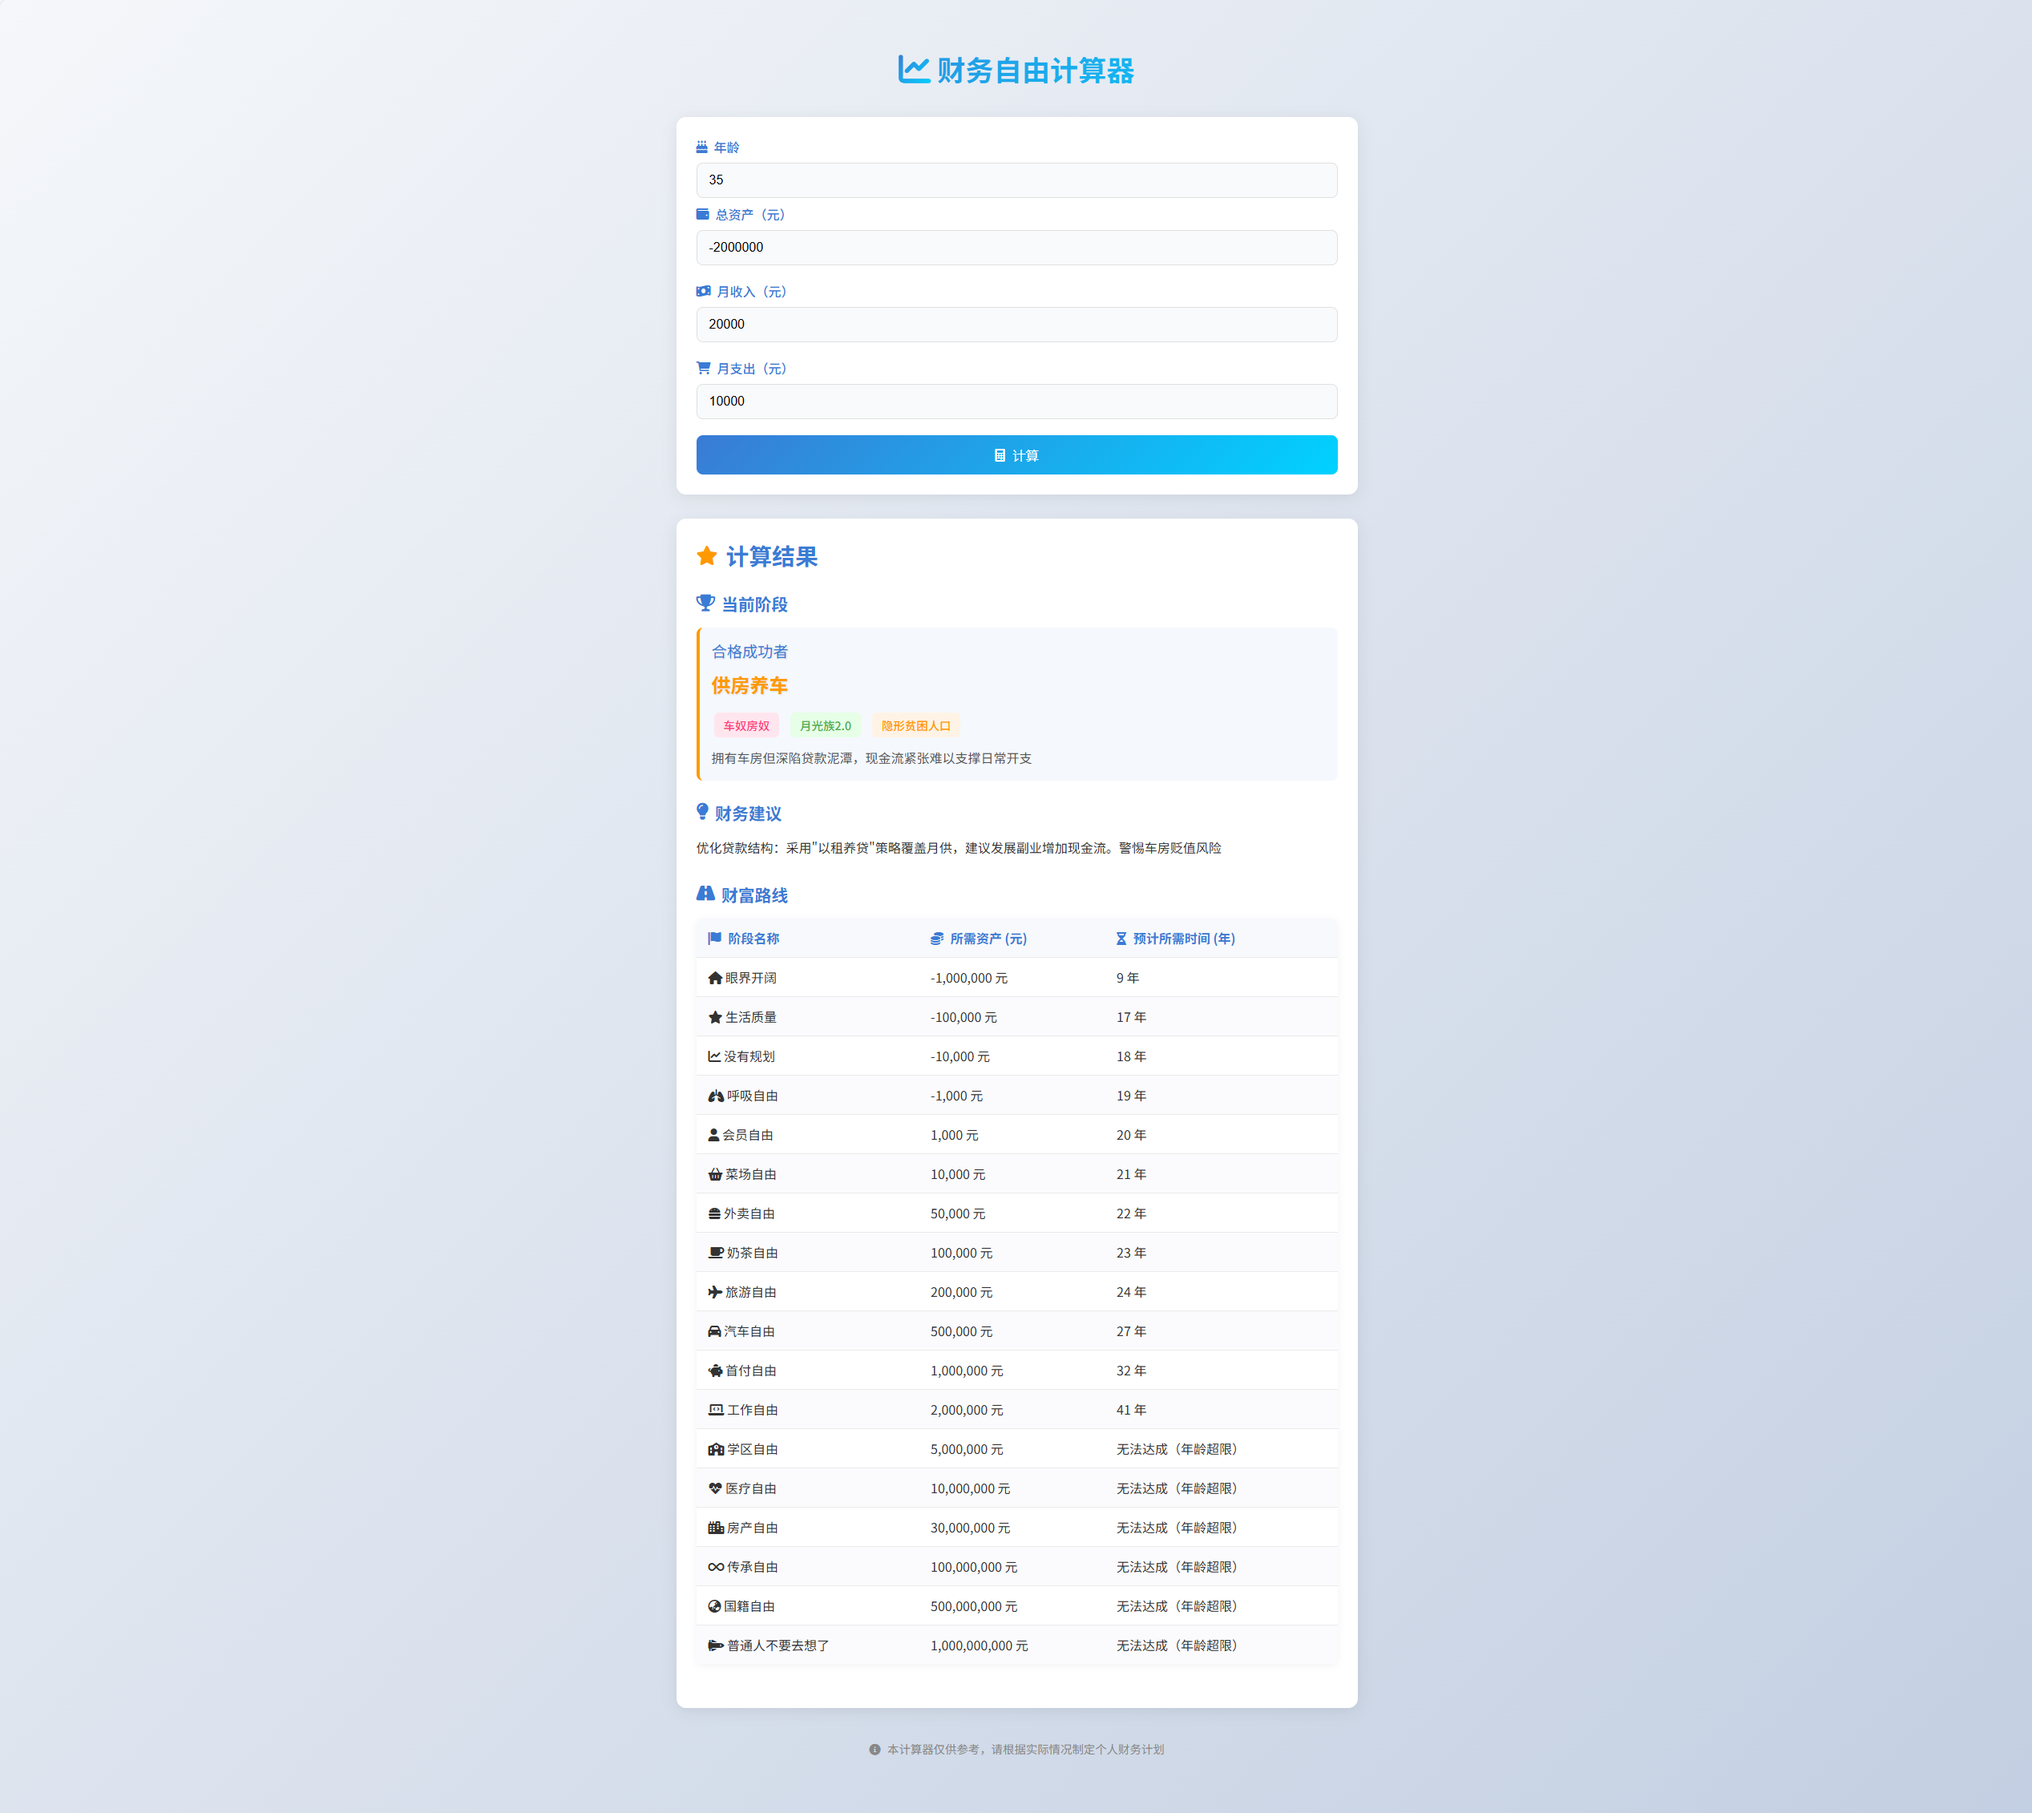
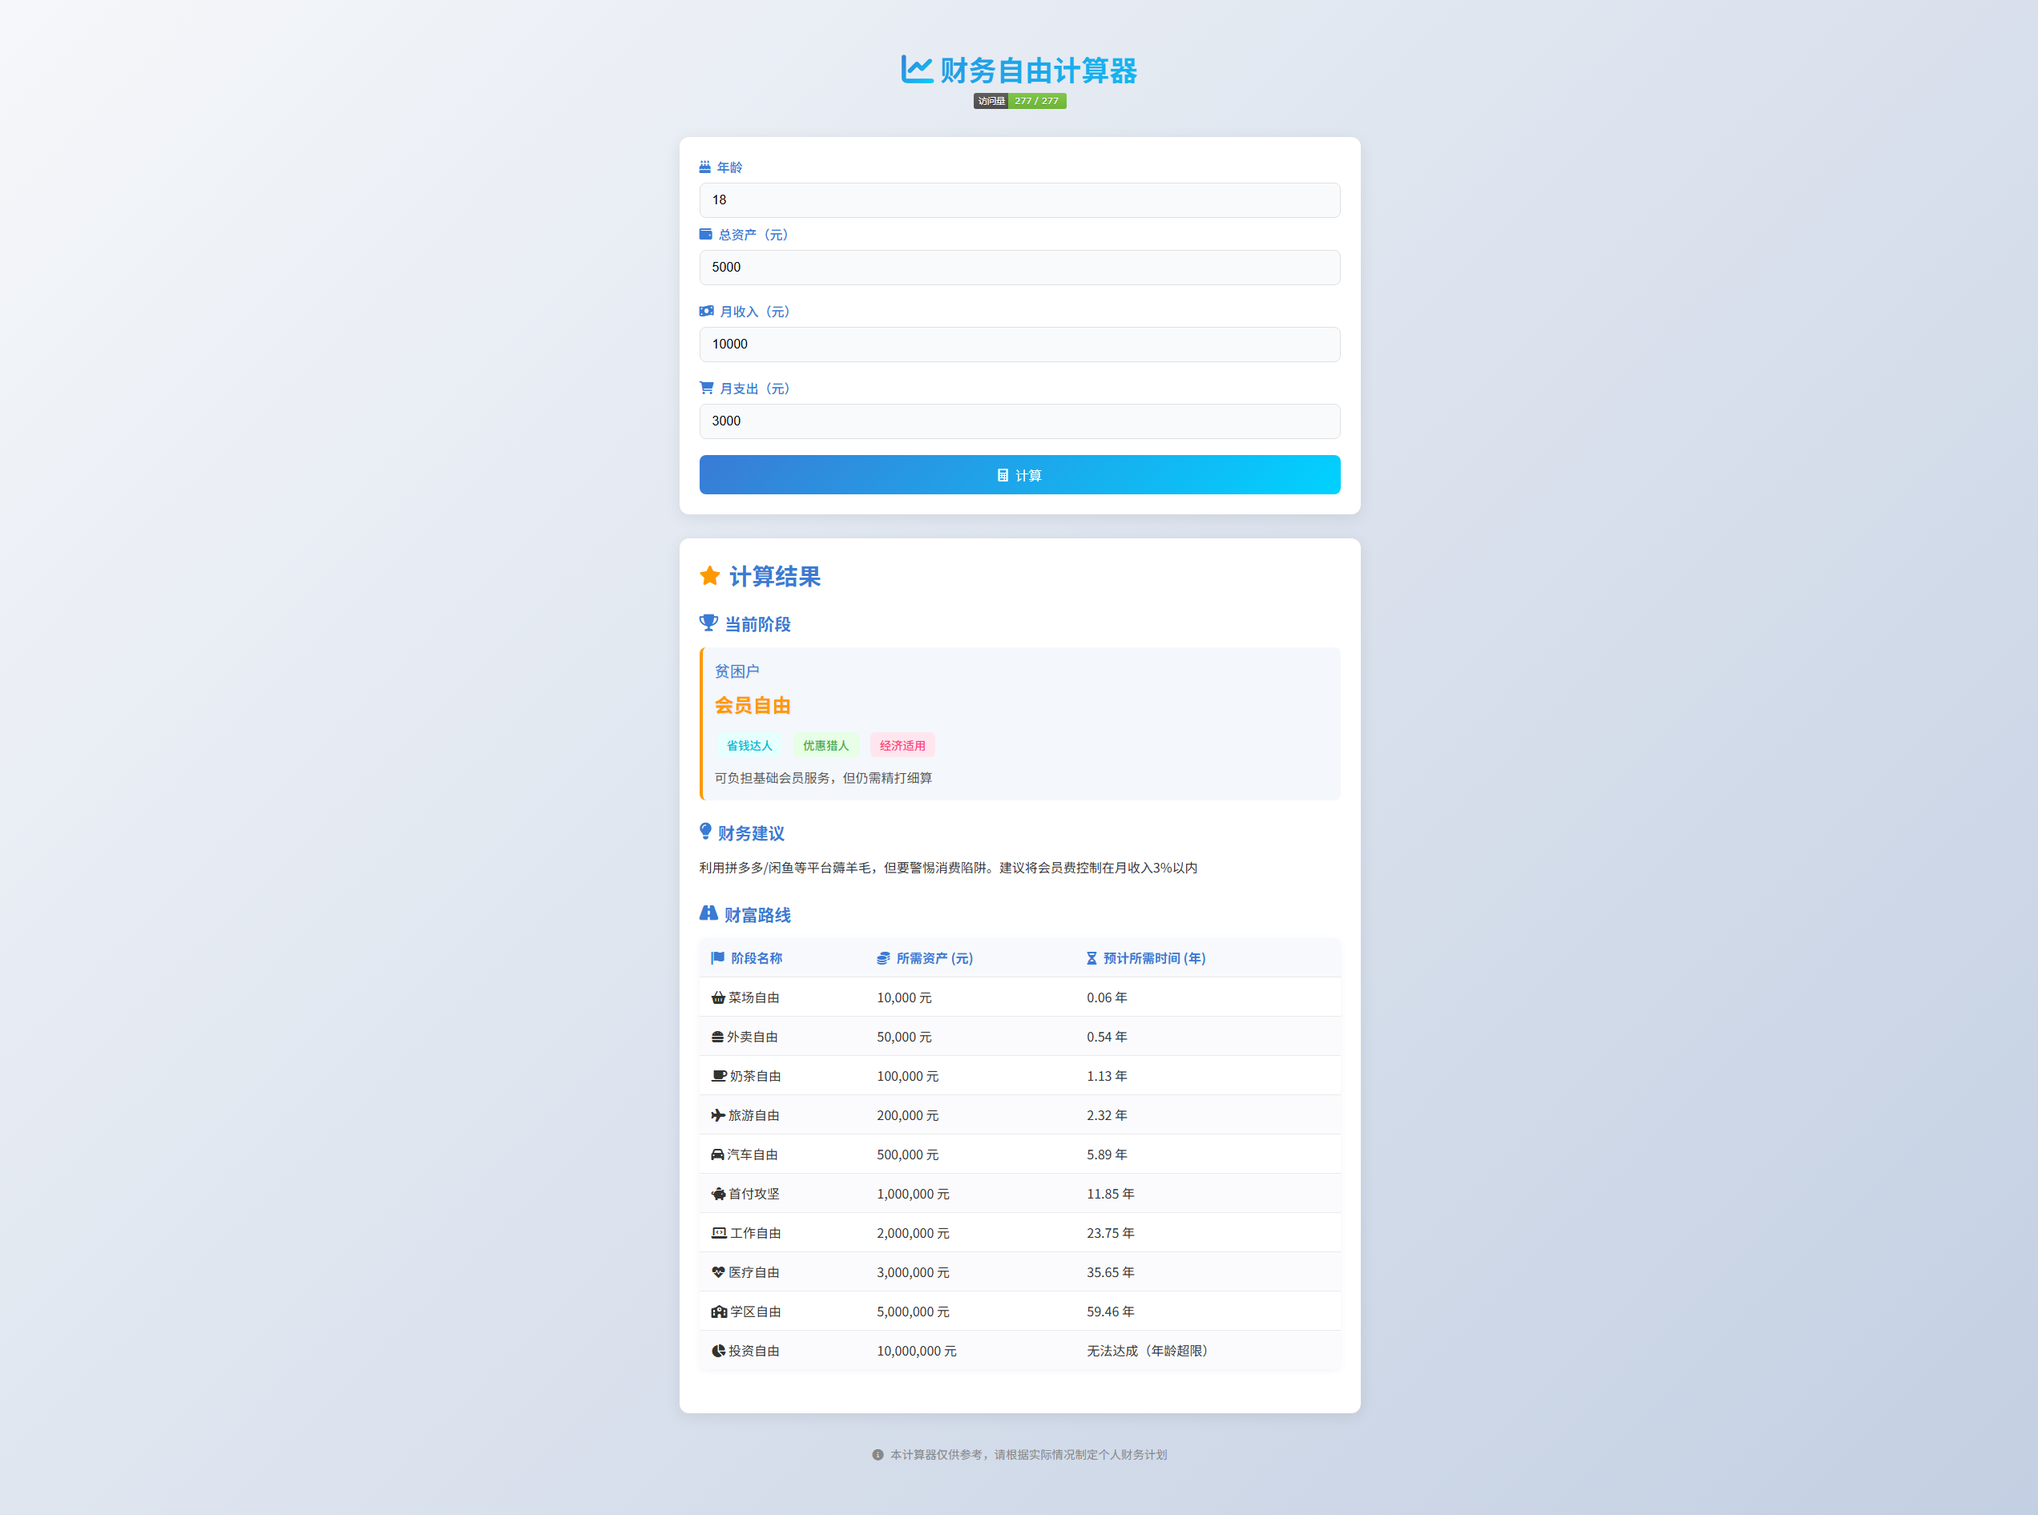
🐞 fix:

Changed region(s): [[0.3116, 0.0312, 0.6856, 0.9672], [0.5298, 0.624, 0.5921, 0.7176], [0.5609, 0.4992, 0.5921, 0.5304]]

diff --git a/app.js b/app.js
@@ -332,44 +332,27 @@ function determineAllStages(assets) {
   return { currentStage, futureStages };
 }
 
-function calculateTimeToAllStages(
-  currentAssets,
-  annualSavings,
-  futureStages,
-  currentAge
-) {
-  if (futureStages.length === 0) return [];
-
+function calculateTimeToAllStages(currentAssets, annualSavings, futureStages, currentAge) {
+  let years = 0;
   let assets = currentAssets;
   const results = [];
-  let cumulativeYears = 0;
-
   for (const stage of futureStages) {
     if (assets >= stage.minAssets) continue;
-
-    const requiredAssets = stage.minAssets;
-    const gap = Math.max(requiredAssets - assets, 0); // 修正负数差额
-
-    if (annualSavings <= 0 && gap > 0) {
+    const gap = stage.minAssets - assets;
+    if (annualSavings <= 0) {
       results.push({ ...stage, yearsToReach: "无法达成（收支失衡）" });
       continue;
     }
-
-    const years = Math.ceil(gap / annualSavings);
-    cumulativeYears += years;
-
-    if (currentAge + cumulativeYears > 100) {
+    // 计算需要多少年（允许小数，不强制向上取整）
+    const requiredYears = gap / annualSavings;
+    years += requiredYears;
+    if (currentAge + years > 100) {
       results.push({ ...stage, yearsToReach: "无法达成（年龄超限）" });
-      continue;
+      break;
     }
-
-    results.push({
-      ...stage,
-      yearsToReach: years > 0 ? cumulativeYears : "无法达成",
-    });
-    assets = requiredAssets;
+    results.push({ ...stage, yearsToReach: years.toFixed(2) + " 年" });
+    assets = stage.minAssets;
   }
-
   return results;
 }
 
